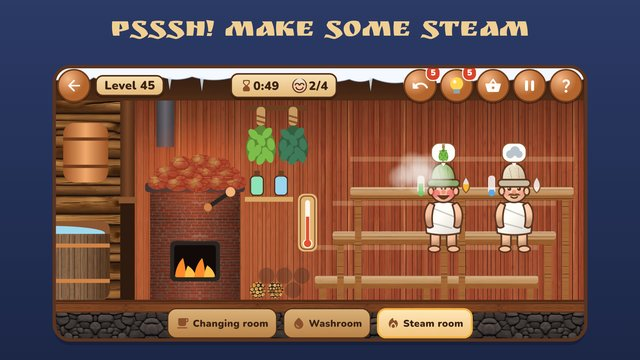
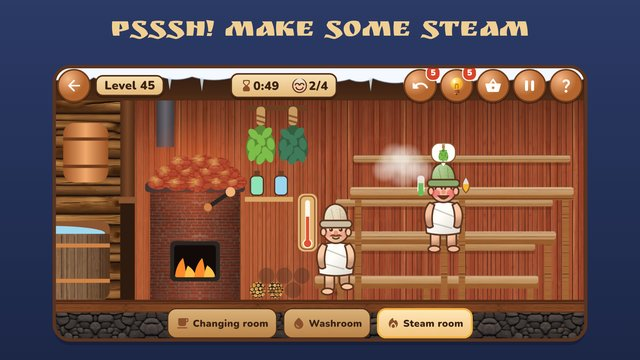
Bathhouse Master: privacy policy for the first release (ads, MyTracker, Tracer on), page screenshots from the new store shots

diff --git a/banny-den/privacy.html b/banny-den/privacy.html
@@ -18,12 +18,13 @@
 <!-- crumbs:start --><style>.crumbs{font-size:14px;line-height:1.4;margin:0 0 18px;color:var(--soft,#6b5444)}.crumbs ol{list-style:none;margin:0;padding:0;display:flex;flex-wrap:wrap;gap:4px 0}.crumbs li+li::before{content:"›";margin:0 8px;opacity:.6}.crumbs a{color:inherit;text-decoration:none;border-bottom:1px solid transparent}.crumbs a:hover{color:var(--accent,#b5481a);border-bottom-color:currentColor}.crumbs [aria-current]{color:var(--ink,#3a2a1e);font-weight:600}</style><nav class="crumbs" aria-label="Навигация"><ol><li><a href="https://wobqqq.github.io/">wobqqq</a></li><li><a href="https://wobqqq.github.io/cat-and-duck-studio/ru/">Cat &amp; Duck Studio</a></li><li><a href="https://wobqqq.github.io/banny-den/">Банный день</a></li><li><span aria-current="page">Политика конфиденциальности</span></li></ol></nav><!-- crumbs:end -->
 <a class="lang" href="en/privacy.html">English</a>
 <h1>Политика конфиденциальности игры «Банный день»</h1>
+<p>Игра «Банный день» (далее — игра). Дата обновления: 14 ноября 2026 года.</p>
 <h2>Какие данные</h2>
-<p>Игра не собирает, не хранит на серверах и не передаёт третьим лицам персональные данные. У игры нет аккаунтов и внутриигровых покупок, сейчас в ней нет рекламы и статистики; для игры не нужен интернет. Сейчас в сеть выходят только сама игра, чтобы скачать список других игр студии (см. «Другие игры студии»), и встроенный SDK оценки RuStore в версии для RuStore (см. «Оценка игры»). В обе версии (RuStore и AppGallery) встроен рекламный SDK Яндекса, но он выключен и не запускается (см. «Реклама»); статистика и отчёты о сбоях тоже выключены (см. «Статистика и сбои»). Поэтому версия для AppGallery сейчас выходит в сеть только за этим списком.</p>
+<p>Игра не просит и не собирает имя, телефон, почту, местоположение, контакты и другие персональные данные; у игры нет аккаунтов и внутриигровых покупок; реклама только неперсонализированная (см. «Реклама»). Для самой игры интернет не нужен: без него она работает как обычно. Когда интернет есть, сама игра только скачивает список других игр студии (см. «Другие игры студии»), а кроме этого в сеть выходят только встроенные в игру сторонние SDK и только с тем, что описано ниже: в обеих версиях — реклама Яндекса и VK (см. «Реклама»), обезличенная статистика MyTracker и отчёты о сбоях Tracer (см. «Статистика и сбои»); в версии для RuStore — SDK оценки RuStore (см. «Оценка игры»).</p>
 <h2>Что хранится на устройстве</h2>
-<p>Прогресс, настройки и награды хранятся только на вашем устройстве, чтобы вы могли продолжить игру. Разработчик к ним доступа не имеет.</p>
+<p>Пройденные смены и звёзды, игровая валюта, веники и другие награды, задания, достижения и настройки хранятся только на вашем устройстве, чтобы вы могли продолжить игру. Разработчик к ним доступа не имеет.</p>
 <h2>Напоминания</h2>
-<p>Если вы сами согласились, игра просит у телефона разрешение на уведомления и ставит локальное напоминание: только если вы не открывали игру 7 дней, не больше 3 раз подряд (через 7, 14 и 21 день) и никогда ночью. Его показывает сам телефон по расписанию, без интернета и серверов; никакие данные при этом никуда не отправляются. Разрешение на запуск после перезагрузки нужно только для того, чтобы снова поставить напоминание. Выключить его можно в настройках игры или телефона в любой момент.</p>
+<p>Если вы сами согласились, игра просит у телефона разрешение на уведомления и ставит локальное напоминание: только если вы не открывали игру 7 дней, не больше 3 раз подряд (через 7, 14 и 21 день) и никогда ночью. Его показывает сам телефон по расписанию, без интернета и серверов; никакие данные при этом никуда не отправляются. Разрешение на запуск после перезагрузки нужно только для того, чтобы снова поставить напоминание. Выключить его можно в настройках игры или телефона в любой момент. Включили ли вы напоминания и открыли ли игру по напоминанию, учитывается в обезличенной статистике (см. «Статистика и сбои»).</p>
 <h2>Сколько хранится и как удалить</h2>
 <p>Данные хранятся, пока игра установлена. Чтобы удалить их, удалите игру или очистите её данные в настройках телефона (Настройки → Приложения → Банный день → Хранилище → Очистить данные).</p>
 <h2>Оценка игры</h2>
@@ -31,21 +32,20 @@
 <p>При каждом запуске версии для RuStore, а также если окно оценки не удалось открыть, SDK отправляет на сервер RuStore (stats-dg.rustore.ru) технические метрики: название пакета и версию игры, название и версию SDK, тип события и его время, описание ошибки, если она была, и случайный идентификатор установки, который SDK создаёт на вашем устройстве. Этот идентификатор не связан с моделью телефона, вашим аккаунтом или рекламным идентификатором и удаляется вместе с игрой или при очистке её данных. Как при любом подключении к интернету, сервер видит IP-адрес. Пока нет интернета, метрики ждут на устройстве и отправляются позже фоновой задачей раз в сутки, в том числе после перезагрузки телефона. Поэтому версии для RuStore нужны разрешения на доступ в интернет, проверку состояния сети и запуск после перезагрузки. Имени, телефона, почты, рекламного идентификатора, модели телефона, местоположения и игрового прогресса в этих метриках нет. Срок хранения метрик у RuStore — по его правилам.</p>
 <p>В версии для AppGallery SDK RuStore нет: «Оценить игру» открывает страницу игры в AppGallery. Игра не получает ваши данные из магазина.</p>
 <h2>Реклама</h2>
-<p>В обе версии игры встроен SDK Yandex Mobile Ads (Рекламная сеть Яндекса, ООО «Яндекс») с адаптером VK Рекламы (myTarget, ООО «ВК»), через который Яндекс может привлекать VK Рекламу для части показов. Сейчас реклама в игре выключена: игра не запускает эти SDK, они не обращаются к серверам и ничего не передают, а встроенная в SDK Яндекса аналитика AppMetrica отключена. Разрешения на доступ в интернет и проверку состояния сети в версии для AppGallery есть только из-за этого SDK.</p>
-<p>Если мы включим рекламу в одном из обновлений, эта политика изменится до его выхода. Реклама тогда будет только неперсонализированной: игра заранее включает в SDK режим для детской аудитории без таргетинга по интересам и не передаёт рекламный идентификатор (разрешение на него из игры удалено). Для показа и подсчёта рекламы SDK будет получать модель устройства, версию Android, язык, IP-адрес и сведения о показах и нажатиях; VK Реклама может использовать для подсчёта показов и нажатий идентификатор MyTracker. Эти данные обрабатывают рекламные сети по своим правилам: Яндекс — <a href="https://yandex.ru/legal/confidential/">https://yandex.ru/legal/confidential/</a> (условия SDK: <a href="https://yandex.ru/legal/mobileads_sdk_agreement/">https://yandex.ru/legal/mobileads_sdk_agreement/</a>), VK — <a href="https://help.mail.ru/legal/terms/adsvk/privacy/">https://help.mail.ru/legal/terms/adsvk/privacy/</a>. Игра сама эти данные не хранит.</p>
+<p>В игре показывается реклама через Рекламную сеть Яндекса (SDK Yandex Mobile Ads, ООО «Яндекс»), которая для части показов привлекает VK Рекламу (ООО «ВК»). Реклама только неперсонализированная: игра включает в SDK режим для детской аудитории без таргетинга по интересам и не передаёт рекламный идентификатор. Для показа и подсчёта рекламы SDK может получать модель устройства, версию Android, язык, IP-адрес и сведения о показах и нажатиях; эти данные обрабатывают рекламные сети по своим политикам: <a href="https://yandex.ru/legal/confidential/">https://yandex.ru/legal/confidential/</a>, <a href="https://help.mail.ru/legal/terms/adsvk/privacy/">https://help.mail.ru/legal/terms/adsvk/privacy/</a>. Игра сама эти данные не хранит. Срок хранения — по политикам сетей. Без интернета реклама не показывается, а игра работает как обычно.</p>
 <h2>Статистика и сбои</h2>
-<p>Сервисы статистики MyTracker и отчётов о сбоях Tracer (ООО «ВК») в этой версии игры выключены: ключей для них в игре нет, Tracer в игру не входит, а библиотеку MyTracker, которая приходит вместе с адаптером VK Рекламы, игра не запускает. Статистика и отчёты о сбоях никуда не отправляются. Если мы их включим, эта политика изменится до выхода такого обновления.</p>
+<p>Чтобы делать игру лучше, она отправляет обезличенную статистику через MyTracker (ООО «ВК») в детском режиме: запуски и длительность игры, пройденные уровни и обучение, использование подсказок и отмен, напоминания и игровую валюту, просмотры рекламы, а также технические сведения: модель телефона, версию системы, язык, часовой пояс и версию игры. Если игра закрылась с ошибкой, зависла или в ней произошла ошибка, техническое описание сбоя (модель и версия системы телефона, версия игры, место ошибки в коде, последний открытый уровень) отправляется в Tracer (RuStore, ООО «ВК»). Идентификатор MyTracker может использовать VK Реклама, чтобы считать показы и нажатия рекламы. Имени, телефона, почты, рекламного идентификатора, местоположения, показаний датчиков и содержимого телефона там нет; сервер, как при любом подключении, видит IP-адрес. Эти SDK хранят на устройстве свой случайный идентификатор установки; он удаляется вместе с игрой или при очистке её данных. Пока нет интернета, данные ждут на устройстве и отправляются позже. Данные обрабатываются по правилам VK: <a href="https://tracker.my.com/privacy">https://tracker.my.com/privacy</a>, <a href="https://www.rustore.ru/help/legal/privacy-policy-users">https://www.rustore.ru/help/legal/privacy-policy-users</a>. Срок хранения — по этим правилам.</p>
 <h2>Другие игры студии</h2>
 <p>В меню игры есть карточка «Больше игр» со списком других игр студии Cat &amp; Duck Studio. Чтобы список был свежим без обновления игры, игра в фоне скачивает его и значки игр с сайта студии wobqqq.github.io (GitHub Pages, GitHub, Inc.): после обучения, потом не чаще раза в 30 дней, а также при открытии списка, если ему 15 дней и больше. Это обычное скачивание файлов: игра ничего о вас и о телефоне не отправляет, сервер, как при любом подключении, видит только IP-адрес и время запроса; их обрабатывает GitHub по своим правилам: <a href="https://docs.github.com/en/site-policy/privacy-policies/github-general-privacy-statement">https://docs.github.com/en/site-policy/privacy-policies/github-general-privacy-statement</a>. Список и значки хранятся только на устройстве и удаляются вместе с данными игры. Без интернета показывается список, встроенный в игру. Нажатие на игру в списке открывает её страницу в магазине.</p>
 <h2>Письмо разработчику</h2>
-<p>Кнопка «Написать разработчику» открывает ваше почтовое приложение; письмо отправляете вы сами. Адрес и текст письма используются только для ответа и удаляются по вашей просьбе.</p>
+<p>Кнопка «Написать разработчику» открывает ваше почтовое приложение с готовым письмом (версия игры, версия Android, модель телефона); письмо отправляете вы сами, ничего не отправляется автоматически. Адрес и текст письма используются только для ответа и удаляются по вашей просьбе.</p>
 <h2>Ваши права</h2>
-<p>Вы можете в любой момент удалить данные игры (см. выше) и написать нам с вопросом о данных или с просьбой удалить переписку.</p>
+<p>Вы можете в любой момент удалить данные игры (см. выше): вместе с ними удаляются накопленная на устройстве статистика и идентификаторы установки SDK. Чтобы игра ничего не отправляла в сеть (ни статистику, ни отчёты о сбоях, ни запросы рекламы), запретите ей доступ к интернету в настройках телефона, если телефон это позволяет (Настройки → Приложения → Банный день → Передача данных): игра полностью работает без интернета. Отдельного переключателя статистики в игре нет. С вопросами о данных, которые получили Яндекс или VK, обращайтесь к ним по их правилам (ссылки выше). Вы также можете написать нам с вопросом о данных или с просьбой удалить переписку.</p>
 <h2>Дети</h2>
-<p>Игра подходит для всех возрастов и не собирает данные детей.</p>
+<p>Игра подходит для всех возрастов (0+). Она не спрашивает возраст и не получает имени, почты, телефона, местоположения и рекламного идентификатора. Статистика MyTracker работает в детском режиме. Реклама в игре только неперсонализированная: SDK работает в режиме для детской аудитории.</p>
 <h2>Контакты</h2>
-<p><a href="mailto:serzakharevich@yandex.by">serzakharevich@yandex.by</a>. Дата обновления: 17 октября 2026 года.</p>
-<p><a href="./">← На главную</a></p>
+<p>Вопросы о данных: <a href="mailto:serzakharevich@yandex.by">serzakharevich@yandex.by</a>.</p>
+<p><a href="./">← На страницу игры</a></p>
 </main>
 </body>
 </html>

diff --git a/banny-den/en/privacy.html b/banny-den/en/privacy.html
@@ -18,12 +18,13 @@
 <!-- crumbs:start --><style>.crumbs{font-size:14px;line-height:1.4;margin:0 0 18px;color:var(--soft,#6b5444)}.crumbs ol{list-style:none;margin:0;padding:0;display:flex;flex-wrap:wrap;gap:4px 0}.crumbs li+li::before{content:"›";margin:0 8px;opacity:.6}.crumbs a{color:inherit;text-decoration:none;border-bottom:1px solid transparent}.crumbs a:hover{color:var(--accent,#b5481a);border-bottom-color:currentColor}.crumbs [aria-current]{color:var(--ink,#3a2a1e);font-weight:600}</style><nav class="crumbs" aria-label="Breadcrumb"><ol><li><a href="https://wobqqq.github.io/">wobqqq</a></li><li><a href="https://wobqqq.github.io/cat-and-duck-studio/">Cat &amp; Duck Studio</a></li><li><a href="https://wobqqq.github.io/banny-den/en/">Bathhouse Master</a></li><li><span aria-current="page">Privacy policy</span></li></ol></nav><!-- crumbs:end -->
 <a class="lang" href="../privacy.html">Русский</a>
 <h1>Privacy policy of Bathhouse Master</h1>
+<p>The game "Bathhouse Master" (the game). Last updated: November 14, 2026.</p>
 <h2>What data</h2>
-<p>The game does not collect personal data, store it on servers or share it with third parties. It has no accounts and no in-app purchases, for now it has no ads and no statistics, and it does not need the internet. For now the only parts that go online are the game itself, to download the list of the studio's other games (see "The studio's other games"), and the built-in RuStore rating SDK in the RuStore version (see "Rating the game"). Both versions (RuStore and AppGallery) contain the Yandex ad SDK, but it is switched off and never started (see "Ads"); statistics and crash reports are switched off too (see "Statistics and crashes"). So for now the AppGallery version goes online only for that list.</p>
+<p>The game does not ask for or collect your name, phone number, email, location, contacts or other personal data; it has no accounts and no in-app purchases; ads are non-personalised only (see "Ads"). The game itself does not need the internet: without it, it works as usual. When the internet is on, the game itself only downloads the list of the studio's other games (see "The studio's other games"); apart from that, only the third-party SDKs built into the game go online, and only with what is described below: in both versions, Yandex and VK ads (see "Ads"), anonymous statistics through MyTracker and crash reports through Tracer (see "Statistics and crashes"); in the RuStore version, the RuStore rating SDK (see "Rating the game").</p>
 <h2>What stays on your device</h2>
-<p>Progress, settings and rewards are stored only on your device so you can continue playing. The developer has no access to them.</p>
+<p>Finished shifts and stars, in-game currency, brooms and other rewards, tasks, achievements and settings are stored only on your device so you can continue playing. The developer has no access to them.</p>
 <h2>Reminders</h2>
-<p>Only if you agree, the game asks the phone for permission to show notifications and sets a local reminder: only after 7 days without opening the game, at most 3 times (after 7, 14 and 21 days), never at night. The phone shows it on schedule by itself, without the internet or any server; no data is sent anywhere. The permission to run after a restart is used only to set the reminder again. You can turn it off in the game's or the phone's settings at any time.</p>
+<p>Only if you agree, the game asks the phone for permission to show notifications and sets a local reminder: only after 7 days without opening the game, at most 3 times (after 7, 14 and 21 days), never at night. The phone shows it on schedule by itself, without the internet or any server; no data is sent anywhere. The permission to run after a restart is used only to set the reminder again. You can turn it off in the game's or the phone's settings at any time. Whether you turned reminders on and opened the game from one is counted in the anonymous statistics (see "Statistics and crashes").</p>
 <h2>How long and how to delete</h2>
 <p>The data is kept while the game is installed. To delete it, uninstall the game or clear its data in the phone settings (Settings → Apps → Bathhouse Master → Storage → Clear data).</p>
 <h2>Rating the game</h2>
@@ -31,21 +32,20 @@
 <p>Each time the RuStore version starts, and if the rating dialog fails to open, the SDK sends technical metrics to a RuStore server (stats-dg.rustore.ru): the game's package name and version, the SDK's name and version, the event type and its time, error details if something failed, and a random installation ID that the SDK creates on your device. This ID is not linked to your phone model, your account or your advertising ID, and it is removed when you uninstall the game or clear its data. As with any internet connection, the server sees your IP address. Without internet, the metrics wait on the device and are sent later by a daily background task, including after the phone restarts. That is why the RuStore version needs the permissions to access the internet, check the network state and run after a restart. These metrics contain no name, phone number, email, advertising ID, phone model, location or game progress. RuStore keeps them as its terms say.</p>
 <p>The AppGallery version has no RuStore SDK: "Rate the game" opens the game's AppGallery page. The game does not receive your data from the store.</p>
 <h2>Ads</h2>
-<p>Both versions of the game contain the Yandex Mobile Ads SDK (Yandex Advertising Network, YANDEX LLC) with the VK Ads adapter (myTarget, VK LLC), through which Yandex may fill some ads with VK Ads. Ads are switched off in the game for now: the game does not start these SDKs, they contact no server and send nothing, and the AppMetrica analytics built into the Yandex SDK is turned off. The AppGallery version has the permissions to access the internet and check the network state only because of this SDK.</p>
-<p>If we turn ads on in an update, this policy will change before that update is out. Ads will then be non-personalised only: the game already puts the SDK into its child-audience mode without interest targeting and does not pass on the advertising ID (the permission for it is removed from the game). To show and count ads, the SDK will receive the device model, Android version, language, IP address and ad impression and click data; VK Ads may use the MyTracker ID to count ad impressions and clicks. The ad networks process this data under their own rules: Yandex: <a href="https://yandex.ru/legal/confidential/">https://yandex.ru/legal/confidential/</a> (SDK terms: <a href="https://yandex.ru/legal/mobileads_sdk_agreement/">https://yandex.ru/legal/mobileads_sdk_agreement/</a>), VK: <a href="https://help.mail.ru/legal/terms/adsvk/privacy/">https://help.mail.ru/legal/terms/adsvk/privacy/</a>. The game itself does not store this data.</p>
+<p>The game shows ads through the Yandex Advertising Network (Yandex Mobile Ads SDK, YANDEX LLC), which fills some of them with VK Ads (VK LLC). Ads are non-personalised only: the game puts the SDK into its child-audience mode without interest targeting and does not pass on the advertising ID. To show and count ads, the SDK may receive the device model, Android version, language, IP address and ad impression and click data; the ad networks process this data under their policies: <a href="https://yandex.ru/legal/confidential/">https://yandex.ru/legal/confidential/</a>, <a href="https://help.mail.ru/legal/terms/adsvk/privacy/">https://help.mail.ru/legal/terms/adsvk/privacy/</a>. The game itself does not store this data. The networks keep it as their policies say. Without internet no ads are shown and the game works as usual.</p>
 <h2>Statistics and crashes</h2>
-<p>The MyTracker statistics and Tracer crash report services (VK LLC) are switched off in this version of the game: it has no keys for them, Tracer is not in the game, and the game does not start the MyTracker library that comes with the VK Ads adapter. No statistics or crash reports are sent anywhere. If we turn them on, this policy will change before that update is out.</p>
+<p>To make the game better, it sends anonymous statistics through MyTracker (VK LLC) in its child mode: launches and play time, levels and tutorial progress, hints and undos used, reminders and in-game currency, ads watched, plus technical details: phone model, system version, language, time zone and game version. If the game closes with an error, freezes or hits an error, a technical description of the failure (phone model and system version, game version, the place in the code, the last level opened) goes to Tracer (RuStore, VK LLC). VK Ads may use the MyTracker ID to count ad impressions and clicks. There is no name, phone number, email, advertising ID, location, sensor readings or phone content in it; as with any connection, the server sees the IP address. These SDKs keep their own random installation ID on the device; it is removed when you uninstall the game or clear its data. Without internet, the data waits on the device and is sent later. VK processes the data under its rules: <a href="https://tracker.my.com/privacy">https://tracker.my.com/privacy</a>, <a href="https://www.rustore.ru/help/legal/privacy-policy-users">https://www.rustore.ru/help/legal/privacy-policy-users</a>, and keeps it as they say.</p>
 <h2>The studio's other games</h2>
 <p>The game menu has a "More games" card listing the other games of Cat &amp; Duck Studio. To keep that list fresh without a game update, the game downloads it and the game icons in the background from the studio site wobqqq.github.io (GitHub Pages, GitHub, Inc.): after the tutorial, then at most once every 30 days, and when you open the list if it is 15 days old or older. It is a plain file download: the game sends nothing about you or your phone; as with any connection, the server sees only the IP address and the time of the request, which GitHub handles under its own rules: <a href="https://docs.github.com/en/site-policy/privacy-policies/github-general-privacy-statement">https://docs.github.com/en/site-policy/privacy-policies/github-general-privacy-statement</a>. The list and icons are kept only on the device and are deleted with the game data. Without the internet, the list built into the game is shown. Tapping a game in the list opens its page in the store.</p>
 <h2>Writing to the developer</h2>
-<p>"Write to the developer" opens your mail app; you send the email yourself. Your address and message are used only to reply and are deleted on request.</p>
+<p>The "Write to the developer" button opens your mail app with a prepared letter (game version, Android version, phone model); you send the email yourself, nothing is sent automatically. Your address and message are used only to reply and are deleted on request.</p>
 <h2>Your rights</h2>
-<p>You can delete the game's data at any time (see above) and write to us with any question about data or to have your emails deleted.</p>
+<p>You can delete the game's data at any time (see above); this also removes the statistics waiting on the device and the SDKs' installation IDs. To stop the game from sending anything (statistics, crash reports, ad requests), block its internet access in the phone settings if your phone allows it (Settings → Apps → Bathhouse Master → Data usage): the game works fully without the internet. There is no separate statistics switch in the game. For data Yandex or VK received, contact them under their rules (links above). You can also write to us with any question about data or to have your emails deleted.</p>
 <h2>Children</h2>
-<p>The game is suitable for all ages and does not collect children's data.</p>
+<p>The game is suitable for all ages (0+). It does not ask your age and does not receive your name, email, phone number, location or advertising ID. MyTracker statistics run in child mode. Ads in the game are non-personalised only: the SDK runs in its child-audience mode.</p>
 <h2>Contact</h2>
-<p><a href="mailto:serzakharevich@yandex.by">serzakharevich@yandex.by</a>. Last updated: 17 October 2026.</p>
-<p><a href="./">← Home</a></p>
+<p>Questions about data: <a href="mailto:serzakharevich@yandex.by">serzakharevich@yandex.by</a>.</p>
+<p><a href="./">← Back to the game page</a></p>
 </main>
 </body>
 </html>
